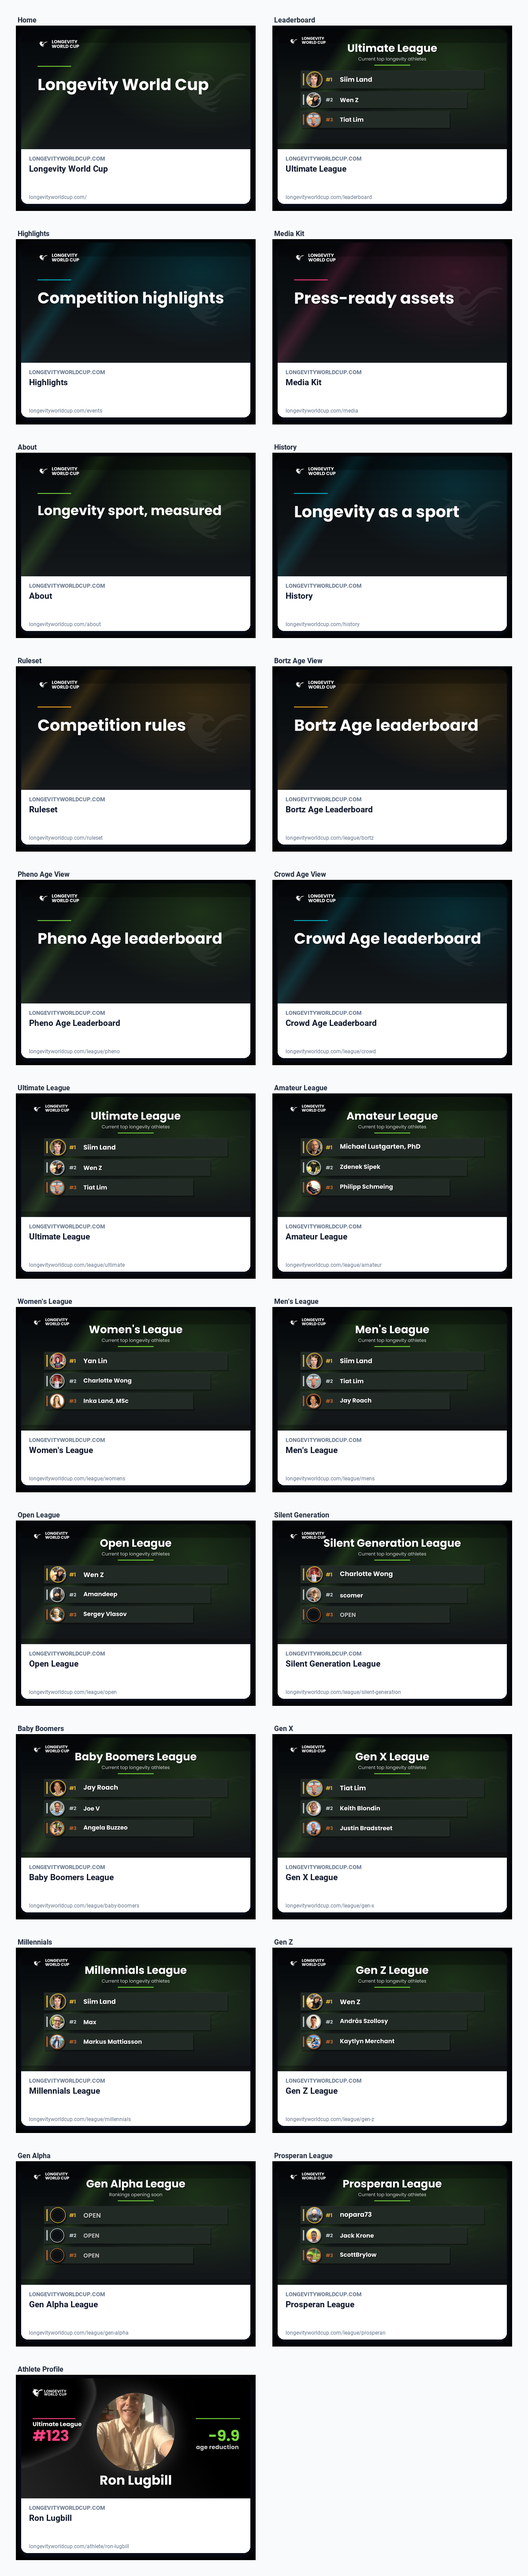
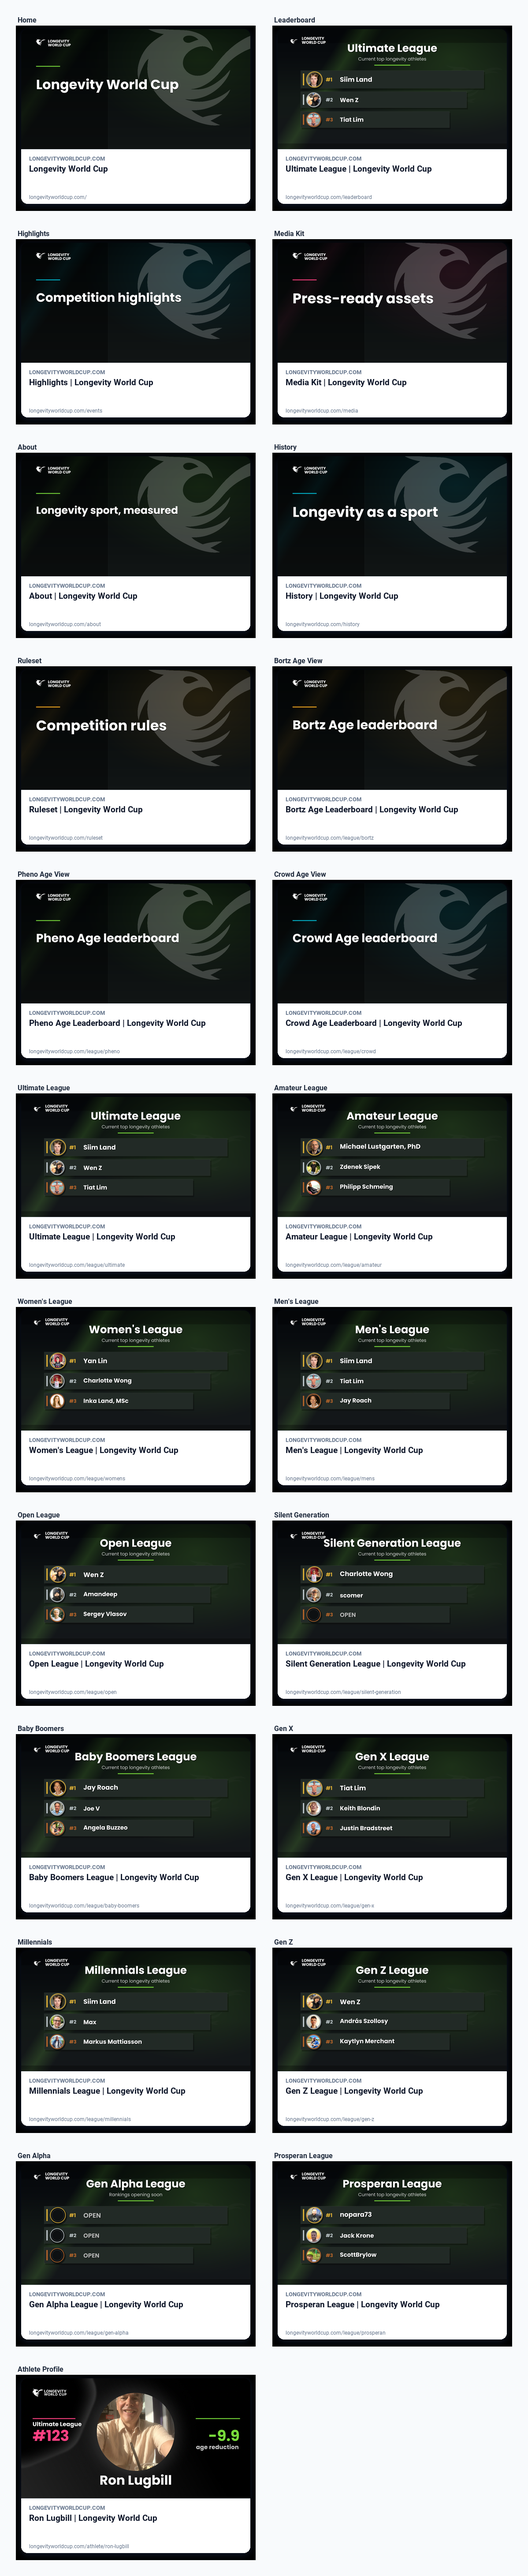
Brand share preview titles

diff --git a/LongevityWorldCup.Website/Middleware/HtmlInjectionMiddleware.cs b/LongevityWorldCup.Website/Middleware/HtmlInjectionMiddleware.cs
@@ -85,11 +85,12 @@ namespace LongevityWorldCup.Website.Middleware
                     var ageVisualization = await File.ReadAllTextAsync(Path.Combine(_webRootPath, "partials", "age-visualization.html"));
                     var seo = GetSeoMeta(context);
 
+                    var previewTitle = BuildPreviewTitle(seo.OgTitle);
                     head = head
                         .Replace("{{SEO_DESCRIPTION}}", EncodeMeta(seo.Description))
                         .Replace("{{SEO_ROBOTS}}", EncodeMeta(seo.Robots))
                         .Replace("{{SEO_CANONICAL_URL}}", EncodeMeta(seo.CanonicalUrl))
-                        .Replace("{{SEO_OG_TITLE}}", EncodeMeta(seo.OgTitle))
+                        .Replace("{{SEO_OG_TITLE}}", EncodeMeta(previewTitle))
                         .Replace("{{SEO_OG_DESCRIPTION}}", EncodeMeta(seo.OgDescription))
                         .Replace("{{SEO_OG_URL}}", EncodeMeta(seo.CanonicalUrl))
                         .Replace("{{SEO_OG_IMAGE}}", EncodeMeta(seo.OgImageUrl))
@@ -635,6 +636,19 @@ $@"<script type=""module"">
         private static string EncodeMeta(string value)
         {
             return System.Net.WebUtility.HtmlEncode(value ?? string.Empty);
+        }
+
+        private static string BuildPreviewTitle(string value)
+        {
+            var title = (value ?? string.Empty).Trim();
+            if (title.Contains("Longevity World Cup", StringComparison.OrdinalIgnoreCase))
+            {
+                return title;
+            }
+
+            return string.IsNullOrWhiteSpace(title)
+                ? "Longevity World Cup"
+                : $"{title} | Longevity World Cup";
         }
 
         private bool TryGetAthleteSeoMeta(HttpContext context, SeoMeta baseSeo, out SeoMeta seo)

diff --git a/LongevityWorldCup.Tests/SharePreviewMetadataTests.cs b/LongevityWorldCup.Tests/SharePreviewMetadataTests.cs
@@ -63,6 +63,34 @@ public sealed class SharePreviewMetadataTests
         Assert.Equal("image/png", response.Content.Headers.ContentType?.MediaType);
     }
 
+    [Theory]
+    [InlineData("/athlete/ron-lugbill", "Ron Lugbill | Longevity World Cup")]
+    [InlineData("/league/gen-alpha", "Gen Alpha League | Longevity World Cup")]
+    [InlineData("/league/prosperan", "Prosperan League | Longevity World Cup")]
+    [InlineData("/about", "About | Longevity World Cup")]
+    public async Task SharePreviewTitles_AddBrandSuffixWhenMissing(string path, string expectedTitle)
+    {
+        using var factory = CreateFactory();
+        using var client = factory.CreateClient();
+
+        var html = await client.GetStringAsync(path);
+
+        Assert.Contains($"property=\"og:title\" content=\"{expectedTitle}\"", html);
+        Assert.Contains($"name=\"twitter:title\" content=\"{expectedTitle}\"", html);
+    }
+
+    [Fact]
+    public async Task SharePreviewTitles_DoNotDuplicateBrandSuffix()
+    {
+        using var factory = CreateFactory();
+        using var client = factory.CreateClient();
+
+        var html = await client.GetStringAsync("/");
+
+        Assert.Contains("property=\"og:title\" content=\"Longevity World Cup\"", html);
+        Assert.DoesNotContain("Longevity World Cup | Longevity World Cup", html);
+    }
+
     private static WebApplicationFactory<Program> CreateFactory()
     {
         return new TestWebApplicationFactory();
